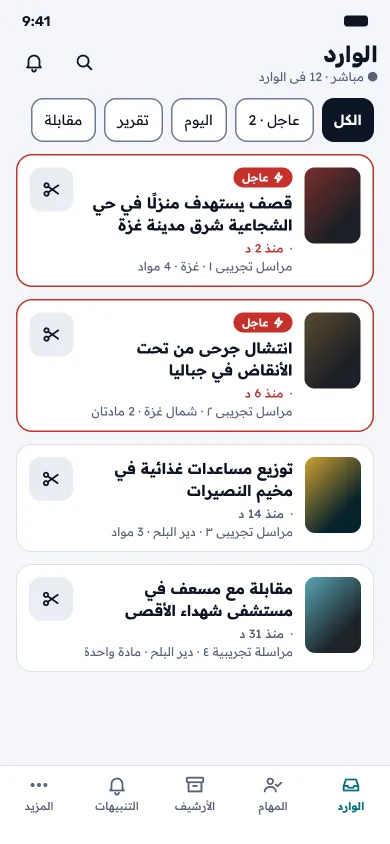
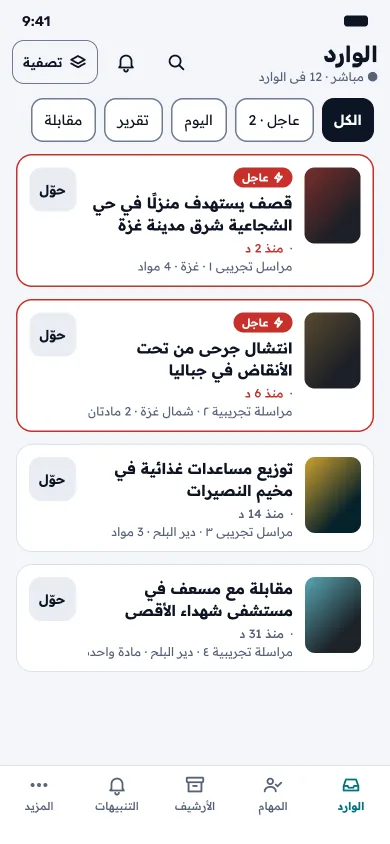
design: address quality review on PR #457
Blockers:
- Touch targets: M4 «التراخيص والأسعار» and T1 «حوّل للمونتير» raised to 44.
- Primary actions are Solid in the new frames (M2, M3, E1, E4, E5) and a
  solid gold button in E6, as in S1/S3; the gradient stays for the reporter's
  send button and icon. In M2 «استلام» is now the primary action, as the next
  step in W2.
- W2 sensitivity line now reads «تُعالَج محليًا ولا تُنشر ولا تُرسل إلى
  مزوّد خارجي», matching ADR 0084 item 4 and M2.
- E5 editor sidebar hides «متجر المؤسسات» as well as the admin section.
- M3 lists overdue first, then nearest due, and says so; spec matches.
- M4 is the buyer template and M5 is reached from «المزيد», which is why M5
  now shows the bottom bar with «المزيد» active; spec states both.
- Breakpoints aligned with design-system.md (phone <768, tablet 768–1199,
  desktop ≥1200). The icon rail replaces editor.md's top-menu rule for v2
  screens; recorded in ADR 0085 consequences.
- E3 no longer promises a 10-second retry: «نعيد المحاولة تلقائيًا».

Notes taken:
- M1 «حوّل» labelled, plus a «تصفية» button for governorate/date filters.
- M5 shows the full A4 formula.
- E2 in-frame note removed and inbox count hidden while loading.
- E3 rows dimmed less and their actions are disabled offline (spec).
- States section scoped to the drawn screens (5xx and 404 follow the same
  pattern); «اطلب الوصول» marked proposed with its constraints.
- M3 shows a «حسّاسة» badge, with an open question for the coordinator on
[…]

diff --git a/docs/design/specs/web-v2.md b/docs/design/specs/web-v2.md
@@ -1,8 +1,8 @@
 # واجهات الويب v2 — غرفة الأخبار والمكتب والمتجر والإدارة
 
 **المرجع:** ملف Figma «Visual Library — Design System»، الصفحات `Web: Newsroom & Desk` و`Web: Store` و`Web: Admin`
-و`Web: Sign-in & Public` (الرابط في `design-system-v2.md`). مبنية من مكوّنات v2 ومتغيّراتها
-(`design-system-v2.md`)، ولقطاتها في `docs/design/redesign-2026-11/screens/web/`. سطح المكتب 1440×900، والجدار
+و`Web: Sign-in & Public` و`Web: Responsive & States` (الرابط في `design-system-v2.md`). مبنية من مكوّنات v2 ومتغيّراتها
+(`design-system-v2.md`)، ولقطاتها في `docs/design/redesign-2026-11/screens/web/`. سطح المكتب 1440×900، والجوال 390×844، والتابلت 1024×768، والجدار
 1920×1080. الوجه الداكن للمتجر والجدار بوضع `Dark` المضبوط صراحةً على الإطار، لا بألوان منسوخة.
 
 هذه الوثيقة تجرد الشاشات وقواعدها. لا تغيّر نطاق المرحلة: المحرر والنشر المباشر لمرحلة «مكتب المحرر»
@@ -51,35 +51,39 @@
 
 ## الجوال والتابلت (صفحة Figma `Web: Responsive & States`)
 
-الويب نفسه بثلاث نقاط توقّف، والمحتوى والصلاحيات واحدة. اللقطات `screens/web/m*.webp` و`t1-*.webp`.
+الويب نفسه بثلاث نقاط توقّف، والمحتوى والصلاحيات واحدة. اللقطات `screens/web/m*.webp` و`t1-*.webp`. النقاط والهوامش هي شبكة `design-system.md` نفسها (جوال دون 768، لوح 768–1199، مكتب من 1200؛ هوامش 16 و24 و32)، والتنقّل وحده جديد: **لشاشات v2 يحلّ شريط الأيقونات في 768–1199 محلّ قاعدة `editor.md`** (الشريط 240 يختفي دون 1000 ويصير قائمة علوية).
 
 | النقطة | العرض | التنقّل | القاعدة |
 |---|---|---|---|
 | جوال | أقل من 768 (الإطارات 390) | شريط سفلي بخمس وجهات: الوارد · المهام · الأرشيف · التنبيهات · المزيد؛ وشريط علوي بالعنوان والبحث والجرس | عمود واحد؛ كل هدف ≥ 44؛ الفعل الأساسي في أسفل الشاشة في متناول الإبهام |
-| تابلت | 768–1279 (الإطار 1024) | شريط أيقونات جانبي بعرض 76 وتسميات قصيرة | صفوف الوارد كاملة؛ لا لوحة تفاصيل جانبية تحت 1280 |
-| سطح مكتب | 1280 فأكثر | الشريط الجانبي الكامل | الشاشات W وS وA وP أعلاه |
+| تابلت | 768–1199 (الإطار 1024) | شريط أيقونات جانبي بعرض 76 وتسميات قصيرة | صفوف الوارد كاملة، وأفعالها بارتفاع 44 لأن الجهاز لمسي؛ لا لوحة تفاصيل جانبية |
+| سطح مكتب | 1200 فأكثر | الشريط الجانبي الكامل (240) | الشاشات W وS وA وP أعلاه |
+
+**قالبا المتجر والمال على الجوال:** M1–M3 قالب غرفة الأخبار (شريط علوي بالعنوان والبحث والجرس، وشريط سفلي بخمس وجهات). M4 قالب **المشتري**، فلا يملك وجهات غرفة الأخبار: شريط علوي بالعلامة والسلة والحساب، بلا شريط سفلي. M5 شاشة للمدير تُبلَغ من «المزيد»، فيبقى الشريط السفلي ووجهة «المزيد» نشطة.
 
 | الرمز | الشاشة | القاعدة |
 |---|---|---|
-| M1 | الوارد (جوال) | بطاقة لكل مادة: صورة مصغّرة، والعنوان على سطرين، ثم سطر الوقت والمراسل والمحافظة؛ العاجل حدّ وشارة وكلمة؛ زرّ «حوّل» 44×44 |
-| M2 | تفاصيل المادة (جوال) | المشغّل 16:9، والحالات الثلاث منفصلة، وسطر الحساسية؛ «استلام» و«حوّل للمونتير» في أسفل الشاشة |
-| M3 | مهامي (جوال) | الأقرب موعدًا أولًا؛ تنزيل الرشزات ورفع المادة متاحان، والمونتاج نفسه على الحاسوب |
+| M1 | الوارد (جوال) | بطاقة لكل مادة: صورة مصغّرة، والعنوان على سطرين، ثم سطر الوقت والمراسل والمحافظة؛ العاجل حدّ وشارة وكلمة؛ زرّ «حوّل» بكلمته (≥ 44)؛ مرشّحا المحافظة والتاريخ ومؤشّرات W1 خلف «تصفية» في الشريط العلوي |
+| M2 | تفاصيل المادة (جوال) | المشغّل 16:9، والحالات الثلاث منفصلة، وسطر الحساسية؛ في أسفل الشاشة «استلام» الفعل الأساسي (كالخطوة التالية في W2) و«حوّل للمونتير» ثانويًا |
+| M3 | مهامي (جوال) | المتأخر أولًا ثم الأقرب موعدًا؛ تنزيل الرشزات ورفع المادة متاحان، والمونتاج نفسه على الحاسوب. المادة الحسّاسة تحمل شارة «حسّاسة». **سؤال مفتوح للمنسّق:** هل تُنزَّل رشزات المادة الحسّاسة على الجوال؟ |
 | M4 | المتجر (جوال، داكن) | بطاقة بعرض الشاشة، والمعاينة بعلامة مائية؛ الترخيص والشراء كما على الحاسوب |
-| M5 | المال (جوال) | جدول A4 يصير قائمة سجلّات: سطر للاسم والنصيب، وسطر للبيع والصافي والحالة، والمجموع في الأسفل؛ المعادلة مكتوبة فوق القائمة |
-| T1 | الوارد (تابلت) | شريط الأيقونات بدل الشريط الكامل، والصفوف كما على الحاسوب |
+| M5 | المال (جوال) | جدول A4 يصير قائمة سجلّات: سطر للاسم والنصيب، وسطر للبيع والصافي والحالة، والمجموع في الأسفل؛ معادلة A4 بنصّها فوق القائمة. المبالغ المنفردة تحمل رمز العملة لأنها ليست أعمدة |
+| T1 | الوارد (تابلت) | شريط الأيقونات بدل الشريط الكامل، والصفوف كما على الحاسوب، وأفعالها بارتفاع 44 |
 
 ## الحالات: الفراغ والتحميل والخطأ
 
-كل شاشة قائمة لها هذه الحالات، بالنمط نفسه: أيقونة في دائرة، وعنوان يقول ما يحدث، وجملة تقول السبب والخطوة التالية، وفعل واحد أو اثنان. لا شاشة بيضاء، ولا «حدث خطأ» بلا سبب.
+رُسمت الحالات لهذه الشاشات، وكل شاشة قائمة أخرى تتبع النمط نفسه (اللقطات `screens/web/e*.webp`). وخطأ الخادم (5xx) وصفحة «غير موجودة» (404) بالنمط نفسه، ولم يُرسما بعد. النمط: أيقونة في دائرة، وعنوان يقول ما يحدث، وجملة تقول السبب والخطوة التالية، وفعل واحد أو اثنان. لا شاشة بيضاء، ولا «حدث خطأ» بلا سبب.
 
 | الرمز | الحالة | القاعدة |
 |---|---|---|
 | E1 | الوارد فارغ | يقول متى تصل المواد ومتى وصلت آخر واحدة؛ وعدّاد الشريط الجانبي يختفي |
 | E2 | التحميل | هياكل بشكل الصفوف الحقيقية، بلا دوّارة؛ ومع «تقليل الحركة» بلا وميض |
-| E3 | انقطاع الاتصال | لافتة تقول إن المحاولة تتكرّر وحدها، وزرّ «أعد المحاولة الآن»؛ آخر بيانات معروضة باهتة مع وقت آخر تحديث |
+| E3 | انقطاع الاتصال | لافتة تقول إن المحاولة تتكرّر تلقائيًا، وزرّ «أعد المحاولة الآن»؛ آخر بيانات معروضة باهتة (تباين نصّها ≥ 4.5:1) مع وقت آخر تحديث، **وأفعالها معطّلة** حتى يعود الاتصال (الكتابة بعده بـ `Idempotency-Key`) |
 | E4 | بحث بلا نتائج | المرشّحات النشطة رقاقات قابلة للإزالة، و«امسح الكل»، واقتراح بعدد النتائج بلا مرشّحات |
-| E5 | لا صلاحية | يقول الدور وما يملكه، و«اطلب الوصول» يصل المديرين مع السبب؛ والشريط الجانبي لا يعرض ما لا يملكه الدور |
-| E6 | المتجر بلا نتائج | يقول لماذا (المواد تظهر بعد المراجعة واعتماد الحقوق)، و«أشعرني حين تصل» |
+| E5 | لا صلاحية | يقول الدور وما يملكه؛ والشريط الجانبي لا يعرض ما لا يملكه الدور (المحرّر: غرفة الأخبار والأرشيف). «اطلب الوصول» **مقترح** خارج الخطة والعقد، يحتاج موافقة المنسّق قبل بنائه (ومعه حدّ طول للسبب وتهريبه وتحديد معدّل وسجل تدقيق) |
+| E6 | المتجر بلا نتائج | يقول لماذا (المواد تظهر بعد المراجعة واعتماد الحقوق)، و«أشعرني حين تصل» (البحث المحفوظ بتنبيه في الخطة)؛ الفعل الأساسي ذهبي ثابت كما في S1 وS3 |
+
+**الأزرار:** الفعل الأساسي في الويب «Solid» ثابت؛ التدرّج لزرّ الإرسال في تطبيق المراسل وأيقونته وحدهما (`design-system-v2.md`). وزرّا A1 «دعوة مستخدم» وA4 «صرف المحدّد» المدموجان بالتدرّج يُصحَّحان مع شاشات الإدارة في طلب لاحق.
 
 ## قواعد مشتركة
 

diff --git a/docs/plan/decisions/0085-visual-identity-v2.md b/docs/plan/decisions/0085-visual-identity-v2.md
@@ -24,4 +24,5 @@
 
 - فترة تعايش بين مجموعتي رموز في الويب؛ تُحذف القديمة حين لا يبقى مستهلك لها.
 - كل وصولية العقد الحالية (WCAG 2.1 AA، RTL أولًا) تبقى شرطًا على v2.
+- تنقّل الويب v2 بنقاط الشبكة القائمة (`design-system.md`): شريط سفلي دون 768، وشريط أيقونات في 768–1199، والشريط الكامل من 1200. وهذا يحلّ محلّ قاعدة `editor.md` (القائمة العلوية دون 1000) لشاشات v2؛ التفصيل في `specs/web-v2.md` (إضافة 2026-11-02).
 - تغيير القرار لاحقًا يكلّف إعادة الرموز والمكوّنات، لا البيانات ولا العقود.
